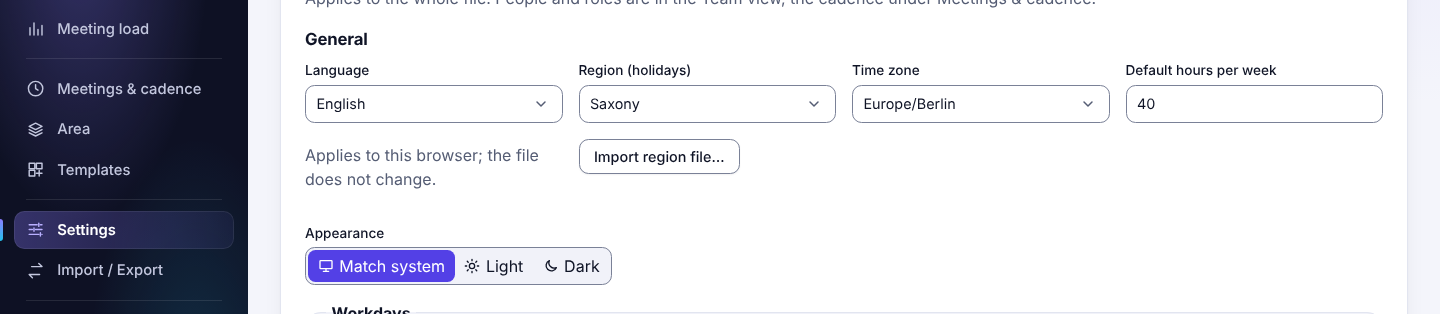
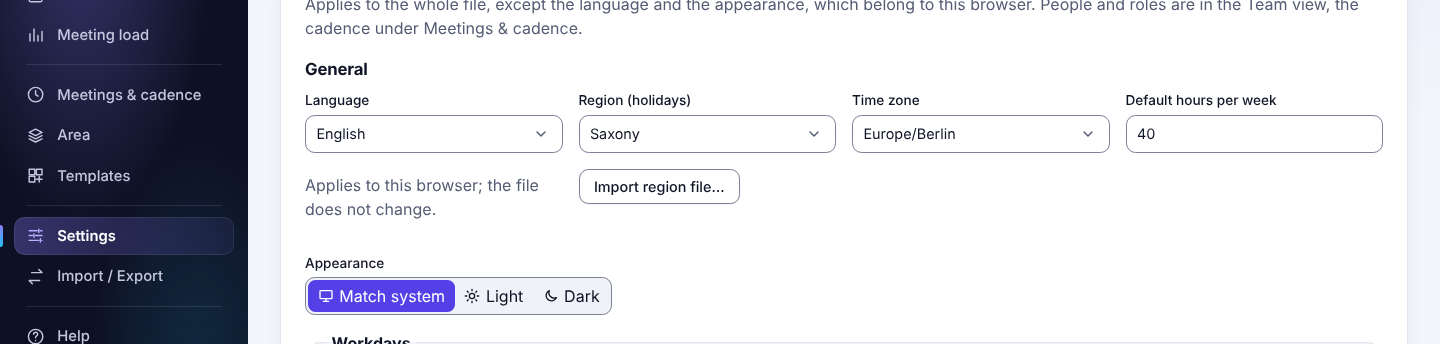
Review nits: focused-only wheel listener, axis-aware scrolling, wording
- The non-passive wheel listener sits only on the focused number field.
- Scrolling goes to the nearest ancestor that can still scroll along the
  wheel's axis, else the page.
- The wheel e2e also checks that the page scrolled.
- Settings intro and its help no longer call everything a file setting
  before listing the browser's language (de/en).

diff --git a/src/ui/state/wheel.ts b/src/ui/state/wheel.ts
@@ -1,32 +1,44 @@
 /**
  * A wheel over a focused number field changes its value in some browsers, silently and with
- * autosave (#337). One listener for the whole app stops that and scrolls on instead, so scrolling
- * over a field still moves the page. Returns the function that removes the listener.
+ * autosave (#337). One handler for the whole app stops that and scrolls on instead, so scrolling
+ * over a field still moves the page. The blocking wheel listener sits only on the focused number
+ * field, so the rest of the page keeps passive, smooth scrolling. Returns the function that
+ * removes the handler.
  */
 export function guardNumberWheel(target: Document): () => void {
   const onWheel = (event: WheelEvent) => {
-    const field = event.target;
-    if (!(field instanceof HTMLInputElement) || field.type !== 'number') return;
-    // Only a focused field reacts to the wheel; any other one already lets the page scroll.
-    if (field !== target.activeElement || event.ctrlKey) return;
+    if (event.ctrlKey) return; // zooming
     event.preventDefault();
     const scale = event.deltaMode === 1 ? 16 : event.deltaMode === 2 ? innerHeight : 1;
-    scroller(field).scrollBy({ left: event.deltaX * scale, top: event.deltaY * scale });
+    const dx = event.deltaX * scale;
+    const dy = event.deltaY * scale;
+    scroller(event.currentTarget as Element, dx, dy).scrollBy({ left: dx, top: dy });
   };
-  target.addEventListener('wheel', onWheel, { passive: false, capture: true });
-  return () => target.removeEventListener('wheel', onWheel, { capture: true });
+  const onFocusIn = (event: FocusEvent) => {
+    const field = event.target;
+    if (!(field instanceof HTMLInputElement) || field.type !== 'number') return;
+    field.addEventListener('wheel', onWheel, { passive: false });
+    field.addEventListener('focusout', () => field.removeEventListener('wheel', onWheel), {
+      once: true,
+    });
+  };
+  target.addEventListener('focusin', onFocusIn);
+  return () => target.removeEventListener('focusin', onFocusIn);
 }
 
-/** The nearest ancestor that scrolls, else the page. */
-function scroller(el: Element): Element {
+/** The nearest ancestor that can still scroll in the wheel's direction, else the page. */
+function scroller(el: Element, dx: number, dy: number): Element {
+  const vertical = Math.abs(dy) >= Math.abs(dx);
+  const delta = vertical ? dy : dx;
   for (let node = el.parentElement; node; node = node.parentElement) {
-    const { overflowX, overflowY } = getComputedStyle(node);
-    const scrolls = (o: string) => o === 'auto' || o === 'scroll';
-    if (
-      (scrolls(overflowY) && node.scrollHeight > node.clientHeight) ||
-      (scrolls(overflowX) && node.scrollWidth > node.clientWidth)
-    )
-      return node;
+    const style = getComputedStyle(node);
+    const overflow = vertical ? style.overflowY : style.overflowX;
+    if (overflow !== 'auto' && overflow !== 'scroll') continue;
+    const pos = vertical ? node.scrollTop : node.scrollLeft;
+    const max = vertical
+      ? node.scrollHeight - node.clientHeight
+      : node.scrollWidth - node.clientWidth;
+    if ((delta > 0 && pos < max - 1) || (delta < 0 && pos > 0)) return node;
   }
   return document.scrollingElement ?? document.documentElement;
 }

diff --git a/tests/e2e/open-where-saved.spec.ts b/tests/e2e/open-where-saved.spec.ts
@@ -196,9 +196,21 @@ test('a wheel over a focused number field scrolls and leaves the value alone', a
   const before = await field.inputValue();
   await field.focus();
   await field.hover();
+  const scrolled = () =>
+    page.evaluate(() =>
+      Math.max(
+        scrollY,
+        ...[...document.querySelectorAll('*')].map((el) =>
+          getComputedStyle(el).overflowY === 'auto' ? el.scrollTop : 0,
+        ),
+      ),
+    );
+  const top = await scrolled();
   await page.mouse.wheel(0, 200);
   await page.mouse.wheel(0, -100);
   await page.mouse.wheel(0, 200);
   await expect(field).toHaveValue(before);
+  // The page scrolled on instead.
+  await expect.poll(scrolled).toBeGreaterThan(top);
   await expect(page.getByText('✓ Saved')).toBeVisible();
 });
